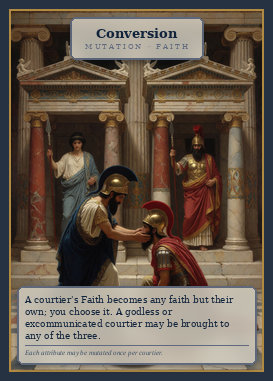
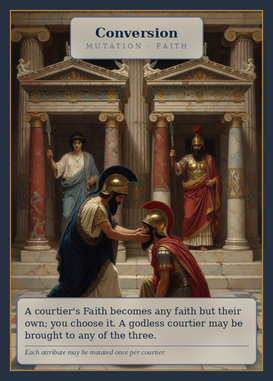
Excommunication leaves a courtier godless
"No faith" and "Godless" counted for nothing alike, so they are now one.
Excommunication turns a courtier Godless without spending their
mutation, so Conversion can still bring them back. A courtier who is
already godless can't be excommunicated.

- `--excommunication-none` restores the empty faith.
- Records from before the change replay under the old rule.
- Excommunication and Conversion are re-rendered with the new wording.
- The sigil drops its dashed "no faith" diamond.
- On a phone, the end of the game gets more of the dock, so Play again
  stays in reach after a shared win.

Claude-Session: https://claude.ai/code/session_01N33ZYiZig83JtVZBownZVB

diff --git a/web/src/components/Sigil.tsx b/web/src/components/Sigil.tsx
@@ -3,8 +3,7 @@ import type { Card } from "../protocol";
 // A courtier's four attributes as one mark, read at a glance and at any size:
 //
 //   faith  -> the shape    One God a circle, Old Gods a square, Mystery Cults
-//                          a hexagon; no faith a diamond (dashed when an
-//                          Excommunication has emptied the slot)
+//                          a hexagon; godless a diamond
 //   house  -> its colour   Argaian red, Mitreas green, Amonides blue; no
 //                          house black
 //   estate -> the glyph    Military a sword, Merchant a coin, Church praying
@@ -81,7 +80,8 @@ function Glyph({ estate, ground }: { estate: string; ground: string }) {
 /** Read aloud: "Mitreas, Merchant, Mystery Cults, Imperial". */
 export function sigilLabel(card: Pick<Card, "estate" | "faith" | "family" | "origin">): string {
   const house = card.family && card.family !== "None" ? card.family : "No house";
-  const faith = !card.faith || card.faith === "None" ? "No faith" : card.faith;
+  // An old record's empty faith (before Excommunication left the godless).
+  const faith = !card.faith || card.faith === "None" ? "Godless" : card.faith;
   return `${house}, ${card.estate ?? "no estate"}, ${faith}, ${card.origin ?? ""}`.replace(/, $/, "");
 }
 
@@ -107,7 +107,6 @@ export function Sigil({
         stroke={ring}
         strokeWidth={3.2}
         strokeLinejoin="round"
-        strokeDasharray={faith === "None" ? "5 3.2" : undefined}
       />
       <Glyph estate={card.estate ?? ""} ground={fill} />
     </svg>
@@ -125,7 +124,6 @@ export function SigilKey() {
         ["Old Gods", { faith: "Old Gods" }],
         ["Mystery Cults", { faith: "Mystery Cults" }],
         ["Godless", { faith: "Godless" }],
-        ["No faith (excommunicated)", { faith: "None" }],
       ],
     },
     {

diff --git a/web/src/components/Rules.tsx b/web/src/components/Rules.tsx
@@ -22,7 +22,7 @@ const CARDS: [string, string][] = [
   ["Demotion", "Sends a seated courtier back to the outer circle, leaving the seat empty."],
   ["Removal", "A courtier leaves play. Targeted Poisoning allows a saving roll."],
   ["Defense", "Paid for with a courtier of the same estate from your hand, it shields a seated courtier from the next removal, demotion, strip or mutation. It does not stop events."],
-  ["Strip", "Takes away a courtier's house (Castration) or faith (Excommunication)."],
+  ["Strip", "Takes away a courtier's house (Castration), or their faith, leaving them godless (Excommunication)."],
   ["Mutation", "Changes one of a courtier's attributes. Each attribute can be changed only once."],
   ["Outmaneuver", "The player you name skips their next turn."],
   ["Schismatic Event", "Swap your agenda for a new secret one."],

diff --git a/web/tests/game.spec.ts b/web/tests/game.spec.ts
@@ -346,7 +346,7 @@ test("every courtier wears a sigil of their attributes as they stand", async ({ 
     // The sigil reads out what the caption under the card says.
     const said = await c.locator(".sigil").getAttribute("aria-label");
     const [estate, faith, house, origin] = await c.locator(".attr").allInnerTexts();
-    expect(said).toBe(`${house}, ${estate}, ${faith === "No faith" ? "No faith" : faith}, ${origin}`);
+    expect(said).toBe(`${house}, ${estate}, ${faith}, ${origin}`);
   }
   // The rules say how to read one.
   await page.getByTestId("show-rules").click();

diff --git a/web/src/styles.css b/web/src/styles.css
@@ -792,3 +792,7 @@ a.button:hover { border-color: var(--gold); }
 .sigil-key ul { list-style: none; margin: 0; padding: 0; display: flex; flex-direction: column; gap: 4px; }
 .sigil-key li { display: flex; align-items: center; gap: 8px; font-size: 0.88rem; }
 .sigil-key .sigil { width: 26px; height: 26px; flex: none; }
+/* The end of the game takes the room it needs: a shared win reveals two
+   agendas, and Play again must still be in reach. */
+.dock-question:has(.prompt.over) { max-height: 62dvh; }
+.dock .revealed-agenda { margin: 6px 0 8px; padding: 6px 8px; }

diff --git a/web/src/components/CardView.tsx b/web/src/components/CardView.tsx
@@ -36,7 +36,7 @@ export const GRID: { attribute: Attribute; label: string }[] = [
 export function attributeText(card: Card, attribute: Attribute): string {
   const value = card[attribute] as string;
   if (attribute === "family" && value === "None") return "No house";
-  if (attribute === "faith" && value === "None") return "No faith";
+  if (attribute === "faith" && value === "None") return "Godless"; // an old record's empty faith
   return value;
 }
 

diff --git a/tests/test_rules.py b/tests/test_rules.py
@@ -401,7 +401,7 @@ class TestDemotionsStripsMutations(unittest.TestCase):
         strip, convert = give(state, 0, "Excommunication", "Conversion")
         target = outer(state, "Crosser of Rivers")[0]
         apply_action(state, 0, Action(PLAY, card=strip, courtier=target), FixedRng())
-        self.assertIs(state.cstate[target].faith, Faith.NONE)
+        self.assertIs(state.cstate[target].faith, Faith.GODLESS)
         self.assertFalse(state.cstate[target].mutated_faith)  # strips are not mutations
         options = {a.value for a in card_actions(state, 0, convert) if a.courtier == target}
         self.assertEqual(options, {f.value for f in FAITHS})
@@ -412,6 +412,21 @@ class TestDemotionsStripsMutations(unittest.TestCase):
             FixedRng(),
         )
         self.assertIs(state.cstate[target].faith, Faith.OLD_GODS)
+
+    def test_the_godless_cannot_be_excommunicated(self):
+        state = fresh()
+        strip = give(state, 0, "Excommunication")[0]
+        target = outer(state, "Crosser of Rivers")[0]
+        apply_action(state, 0, Action(PLAY, card=strip, courtier=target), FixedRng())
+        again = give(state, 0, "Excommunication")[0]
+        self.assertNotIn(target, {a.courtier for a in card_actions(state, 0, again)})
+
+    def test_the_old_excommunication_left_an_empty_faith(self):
+        state = fresh(excommunication_godless=False)
+        strip = give(state, 0, "Excommunication")[0]
+        target = outer(state, "Crosser of Rivers")[0]
+        apply_action(state, 0, Action(PLAY, card=strip, courtier=target), FixedRng())
+        self.assertIs(state.cstate[target].faith, Faith.NONE)
 
     def test_adoption_sacrifices_a_family_courtier(self):
         state = fresh()
@@ -469,7 +484,7 @@ class TestGodlessness(unittest.TestCase):
         state = fresh()
         card = give(state, 0, "Conversion")[0]
         target = outer(state, "Master Swordsmith")[0]
-        # Excommunication leaves the same empty slot Apostasy would, without
+        # Excommunication leaves them godless, as Apostasy would, without
         # spending the courtier's one faith change.
         strip = give(state, 0, "Excommunication")[0]
         apply_action(state, 0, Action(PLAY, card=strip, courtier=target), FixedRng())

diff --git a/succession/runner.py b/succession/runner.py
@@ -99,6 +99,7 @@ def build_config(args: argparse.Namespace, tiers=BOT_TIERS) -> Config:
         event_tiers=("minor", "major") if args.events == "all" else (args.events,),
         caster_edge=args.caster_edge,
         defense_requires_matching_target=args.defense_matches_target,
+        excommunication_godless=not args.excommunication_none,
         house_rising_requires_preferred_seat=not args.house_any_three,
         house_preferred_estates=parse_preferred_estates(args.house_preferred_estates),
         faith_seats=args.faith_seats,
@@ -218,6 +219,7 @@ def add_rules_arguments(parser: argparse.ArgumentParser, players: str = DEFAULT_
     parser.add_argument("--events-held", action="store_true", help="events are held and played from hand (default: an event plays the moment it is drawn, and the drawer draws again)")
     parser.add_argument("--minor-events-on-draw", action="store_true", help="with --events all: only the minor events play when drawn; the majors are held")
     parser.add_argument("--removed-out-of-game", action="store_true", help="killed courtiers never return (default: they may reshuffle back as a new person)")
+    parser.add_argument("--excommunication-none", action="store_true", help="variant: Excommunication leaves an empty faith (None) rather than Godless")
     parser.add_argument("--defense-matches-target", action="store_true", help="an estate Defense may only protect a courtier of that estate")
     parser.add_argument("--balance-seats", type=int, default=7, help="seats that must be filled for Balance to count (default all 7)")
     parser.add_argument("--conquest-barbarians", type=int, default=3, help="barbarians Barbarian Conquest wants seated (default 3)")

diff --git a/succession/actions.py b/succession/actions.py
@@ -187,9 +187,14 @@ def card_actions(state: GameState, player: int, uid: int) -> list[Action]:
 
     if kind is CardKind.STRIP:
         attribute = card.attribute
-        none_value = Family.NONE if attribute == "family" else Faith.NONE
+        if attribute == "family":
+            stripped = {Family.NONE}
+        elif state.config.excommunication_godless:
+            stripped = {Faith.GODLESS, Faith.NONE}  # nothing left to take
+        else:
+            stripped = {Faith.NONE}
         for cand in _touchable(state):
-            if getattr(state.cstate[cand], attribute) is not none_value:
+            if getattr(state.cstate[cand], attribute) not in stripped:
                 out.append(Action(PLAY, card=uid, courtier=cand))
         return out
 
@@ -222,8 +227,8 @@ def _mutation_actions(state: GameState, player: int, uid: int) -> list[Action]:
     out: list[Action] = []
 
     if attribute == "faith" and card.value is None:  # Conversion
-        # Any faith but the one they already hold. A godless or excommunicated
-        # courtier can be brought to any of the three.
+        # Any faith but the one they already hold. A godless courtier can be
+        # brought to any of the three.
         for cand in _touchable(state):
             cs = state.cstate[cand]
             if cs.mutated_faith:

diff --git a/tools/card_text.py b/tools/card_text.py
@@ -180,8 +180,9 @@ RULES: dict[str, str] = {
         "not spend a mutation, so Adoption can give them a family again."
     ),
     "Excommunication": (
-        "A courtier's Faith becomes None. They keep their seat. A strip does "
-        "not spend a mutation, so Conversion can bring them to a faith again."
+        "A courtier's Faith becomes Godless. They keep their seat. A strip "
+        "does not spend a mutation, so Conversion can bring them to a faith "
+        "again."
     ),
     # --- Mutations ----------------------------------------------------------
     # Each attribute may be mutated at most once per courtier.
@@ -203,8 +204,7 @@ RULES: dict[str, str] = {
     ),
     "Conversion": (
         "A courtier's Faith becomes any faith but their own; you choose it. A "
-        "godless or excommunicated courtier may be brought to any of the "
-        "three."
+        "godless courtier may be brought to any of the three."
     ),
     "Apostasy": (
         "A courtier's Faith becomes Godless. Godlessness has no agenda, so "

diff --git a/succession/engine.py b/succession/engine.py
@@ -297,7 +297,7 @@ def _resolve(state: GameState, player: int, action: Action, card, rng, deciders=
 
     if kind is CardKind.STRIP:
         if not defense_absorbs(state, target, kind):
-            value = Family.NONE if card.attribute == "family" else Faith.NONE
+            value = Family.NONE if card.attribute == "family" else _no_faith(state)
             # A strip does not consume the once-per-courtier mutation allowance.
             state.cstate[target] = state.cstate[target].with_attribute(
                 card.attribute, value, is_mutation=False
@@ -702,3 +702,9 @@ def play_game(
     return game_result(
         state, tiers, game_id=game_id, seed=seed, timeout=timeout, keep_state=keep_state
     )
+
+
+def _no_faith(state: GameState) -> Faith:
+    """What an Excommunication leaves: godlessness, or the old empty slot."""
+
+    return Faith.GODLESS if state.config.excommunication_godless else Faith.NONE

diff --git a/succession/enums.py b/succession/enums.py
@@ -20,10 +20,11 @@ class Faith(str, Enum):
     OLD_GODS = "Old Gods"
     MYSTERY_CULTS = "Mystery Cults"
     ONE_GOD = "The One God"
-    #: Actively godless. A real faith value a courtier can be born with or be
-    #: pushed into by Apostasy -- distinct from NONE, which is the empty slot
-    #: an Excommunication leaves behind.
+    #: Actively godless. A real faith value a courtier can be born with, or be
+    #: pushed into by Apostasy or an Excommunication.
     GODLESS = "Godless"
+    #: The empty faith an Excommunication used to leave
+    #: (`Config.excommunication_godless=False`, and older game records).
     NONE = "None"
 
 

diff --git a/succession/state.py b/succession/state.py
@@ -71,6 +71,9 @@ class Config:
     #: Require an estate-specific Defense to protect a courtier of that estate
     #: (the text only requires the *sacrificed* courtier to match).
     defense_requires_matching_target: bool = False
+    #: Excommunication leaves a courtier Godless. False: it leaves the old
+    #: empty faith (None), which a godless courtier could still be stripped to.
+    excommunication_godless: bool = True
     #: Require one of a House Rising trio to sit in the family's own estate.
     house_rising_requires_preferred_seat: bool = True
     #: Inner seats a faith must hold for Faith Ascendant.
